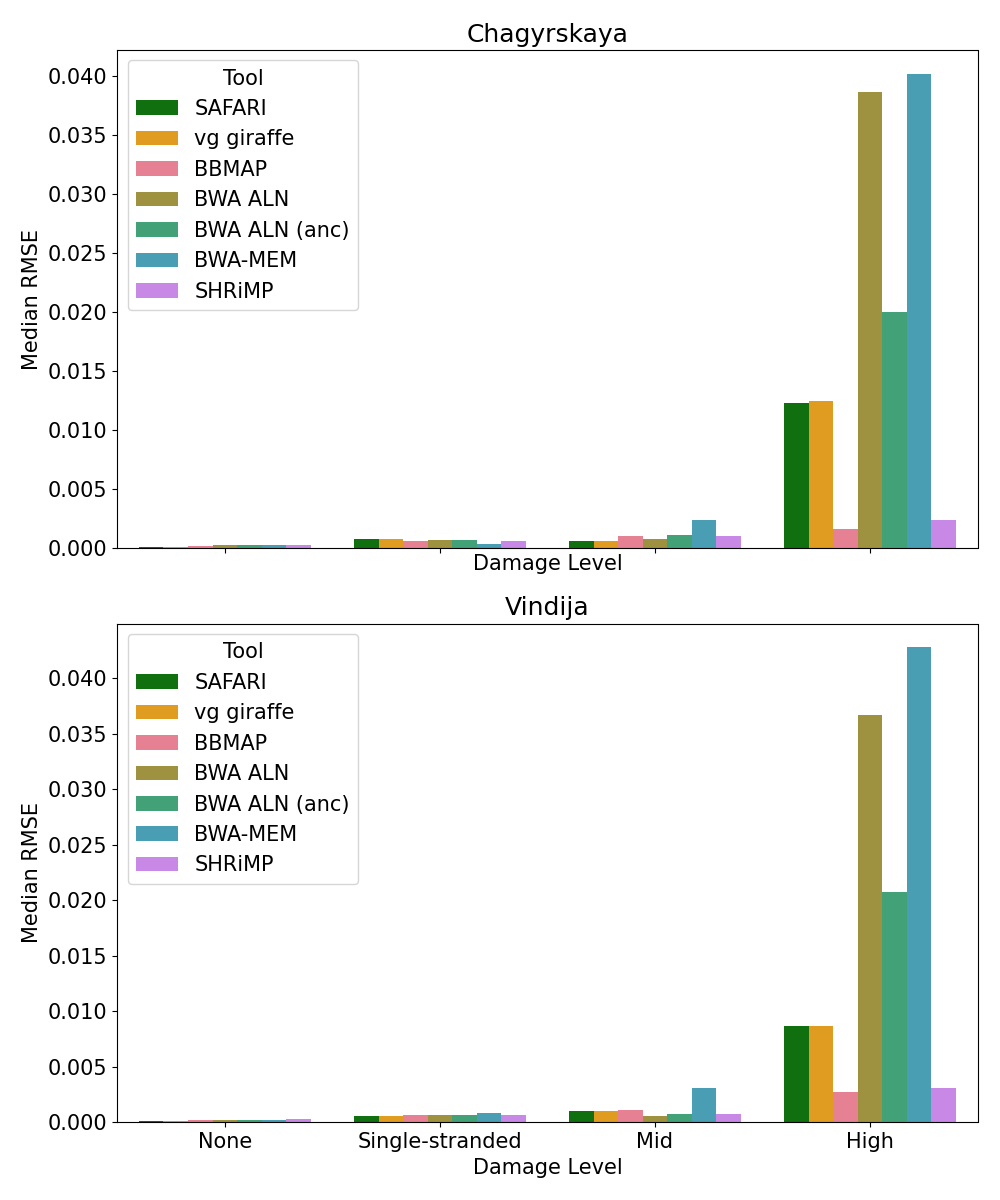
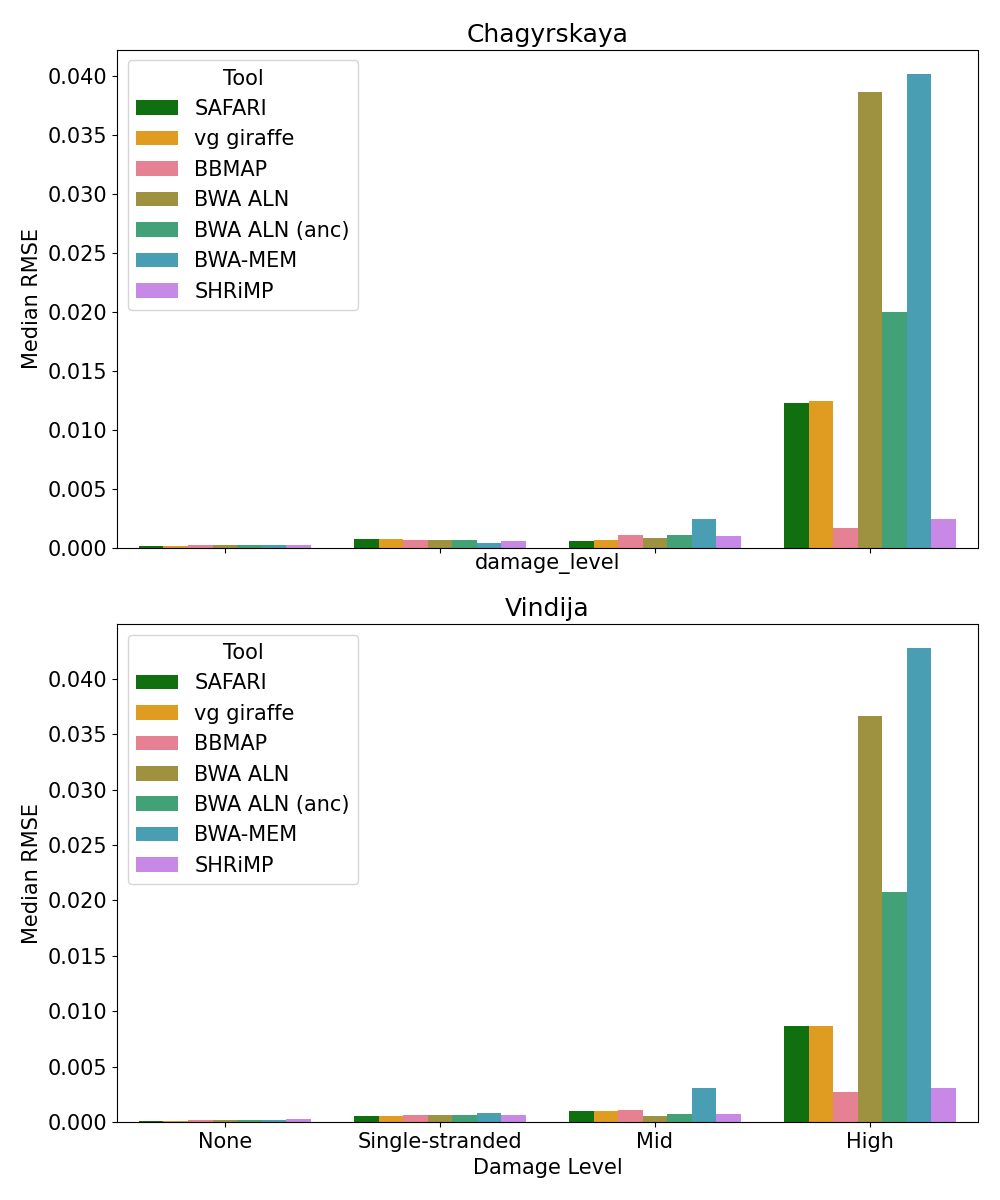
Update

diff --git a/linear_experiment/human_mito/stat_results/RMSE_all.py b/linear_experiment/human_mito/stat_results/RMSE_all.py
@@ -49,7 +49,8 @@ def plot_rmse_by_damage_level(input_file_path):
         sns.barplot(x='damage_level', y='RMSE', hue='Tool', data=site_specific_data, ax=axes[i], ci=None, hue_order=tool_order, palette=color_map)
         axes[i].set_title(site)
         axes[i].set_ylabel('Median RMSE')
-        axes[i].set_xlabel('Damage Level')
+
+    axes[-1].set_xlabel('Damage Level')
 
     plt.tight_layout()
     plt.savefig("RMSE_all_tools_comparison.png")
